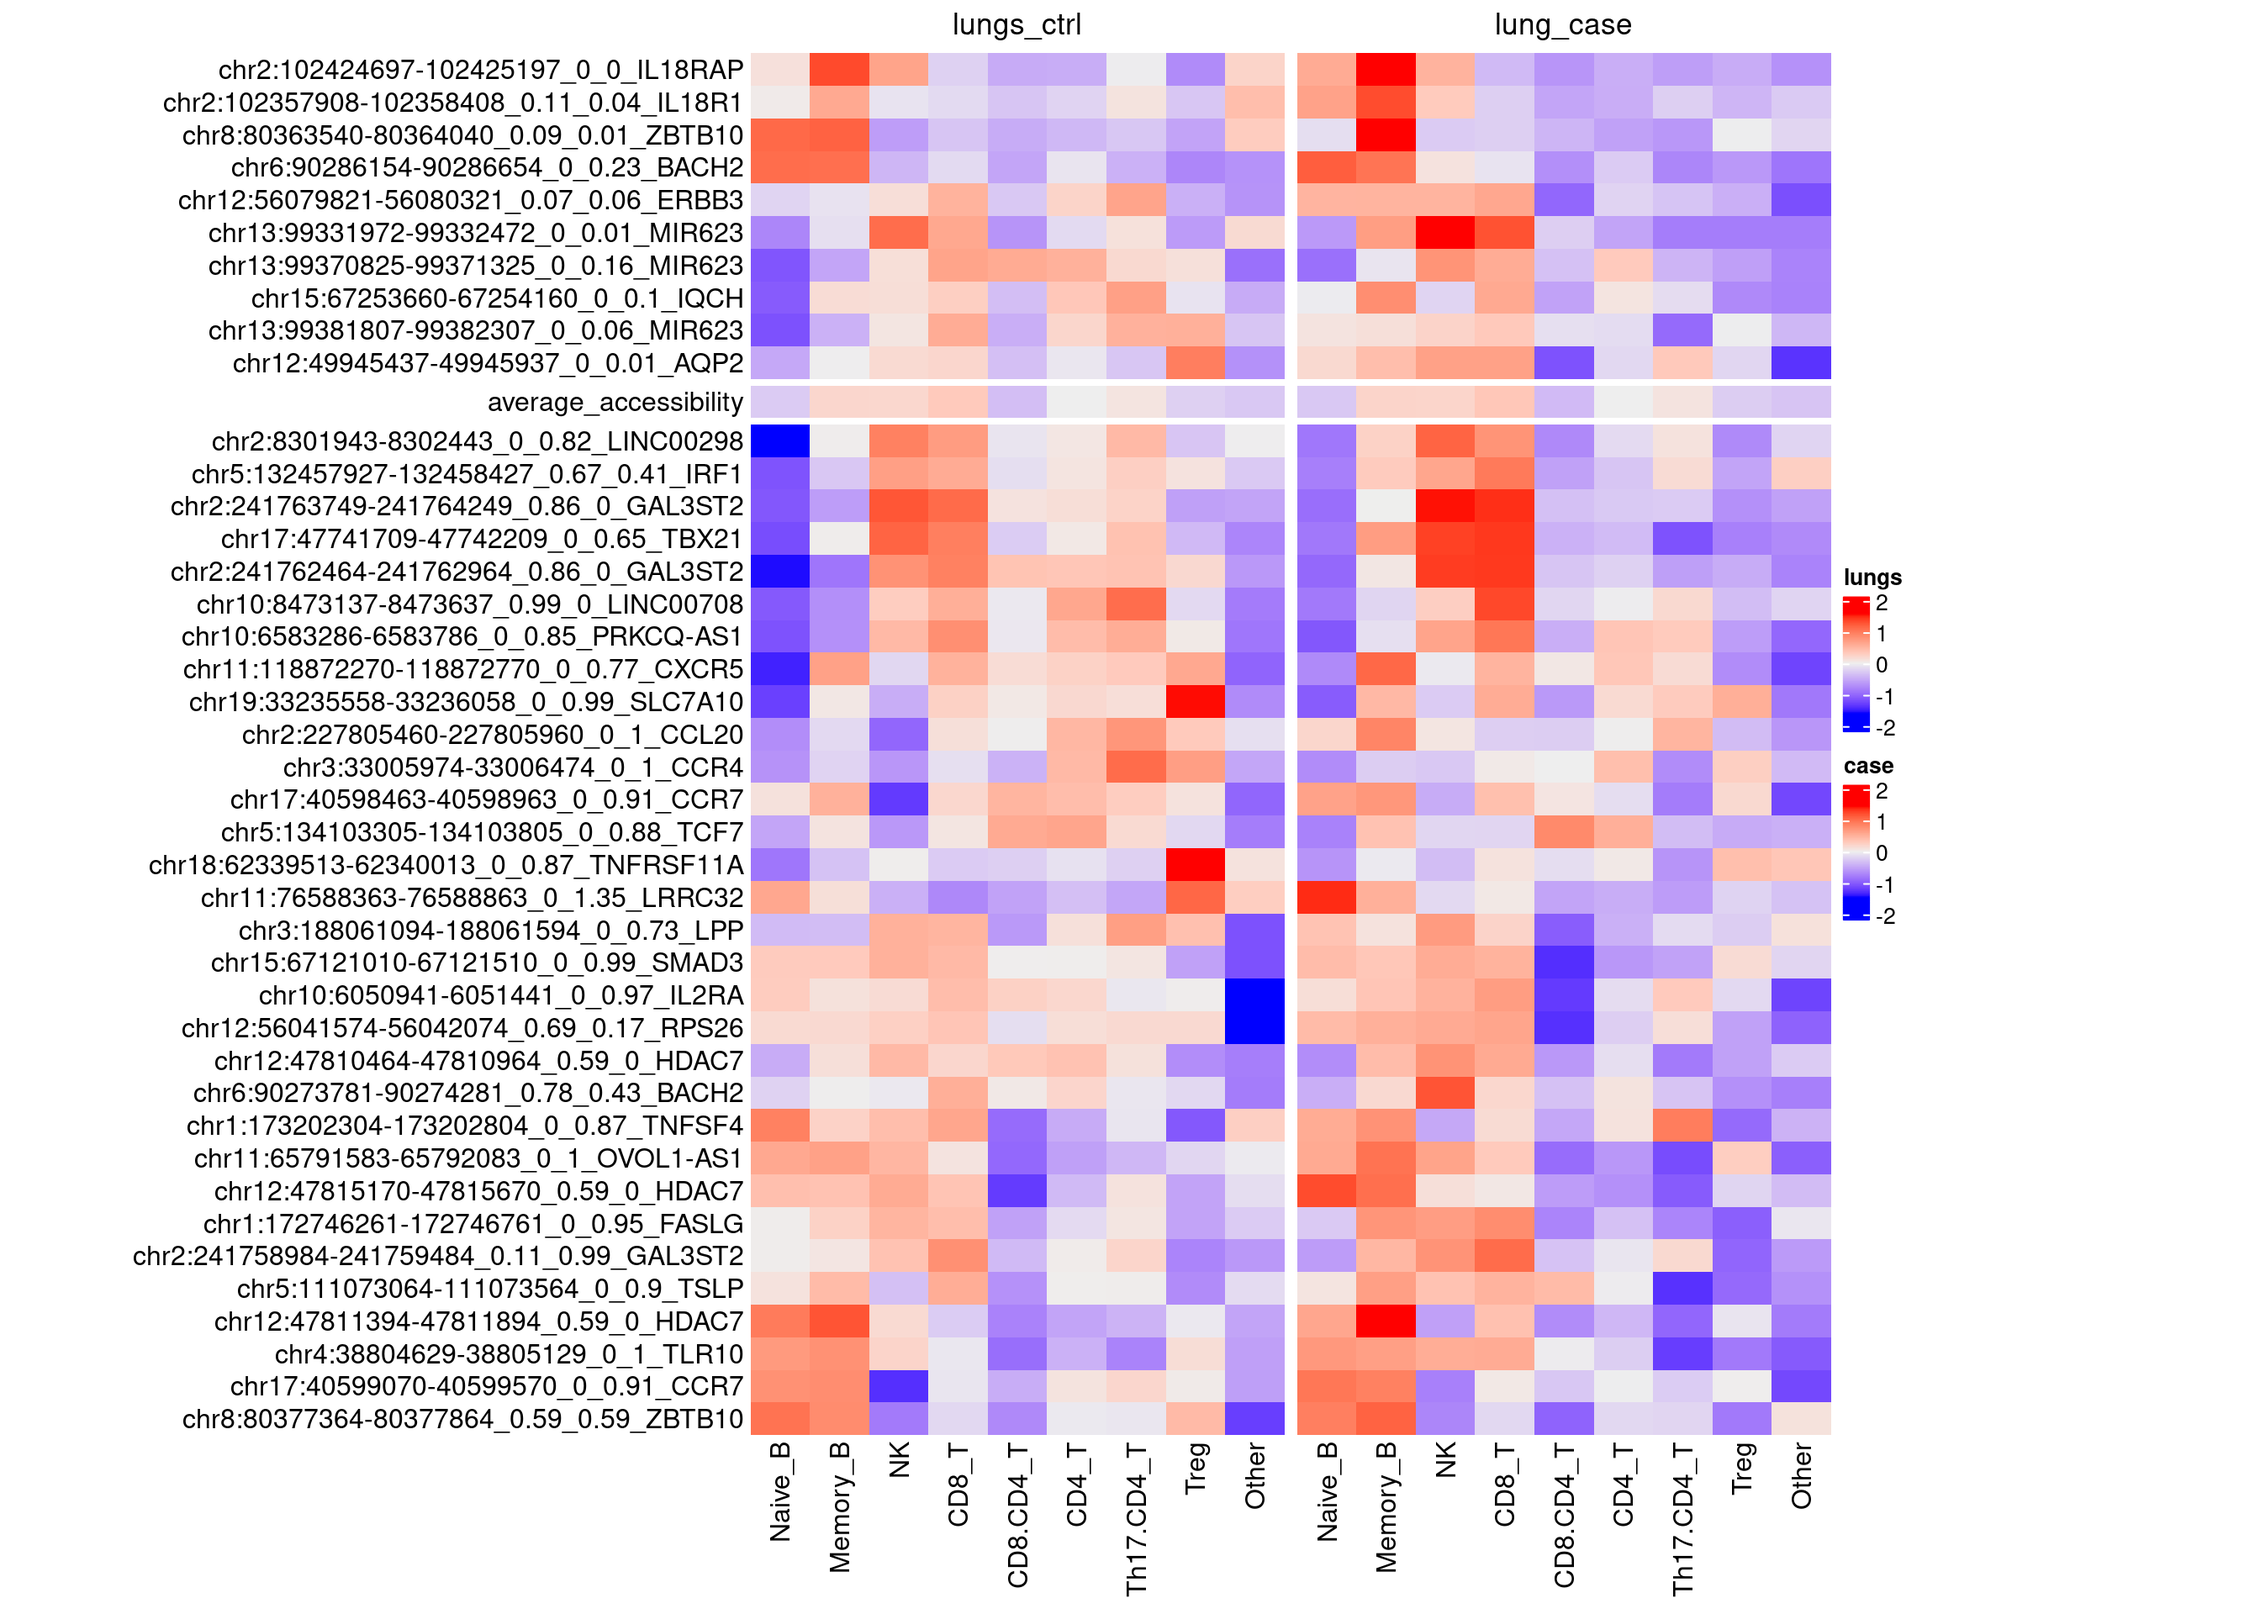
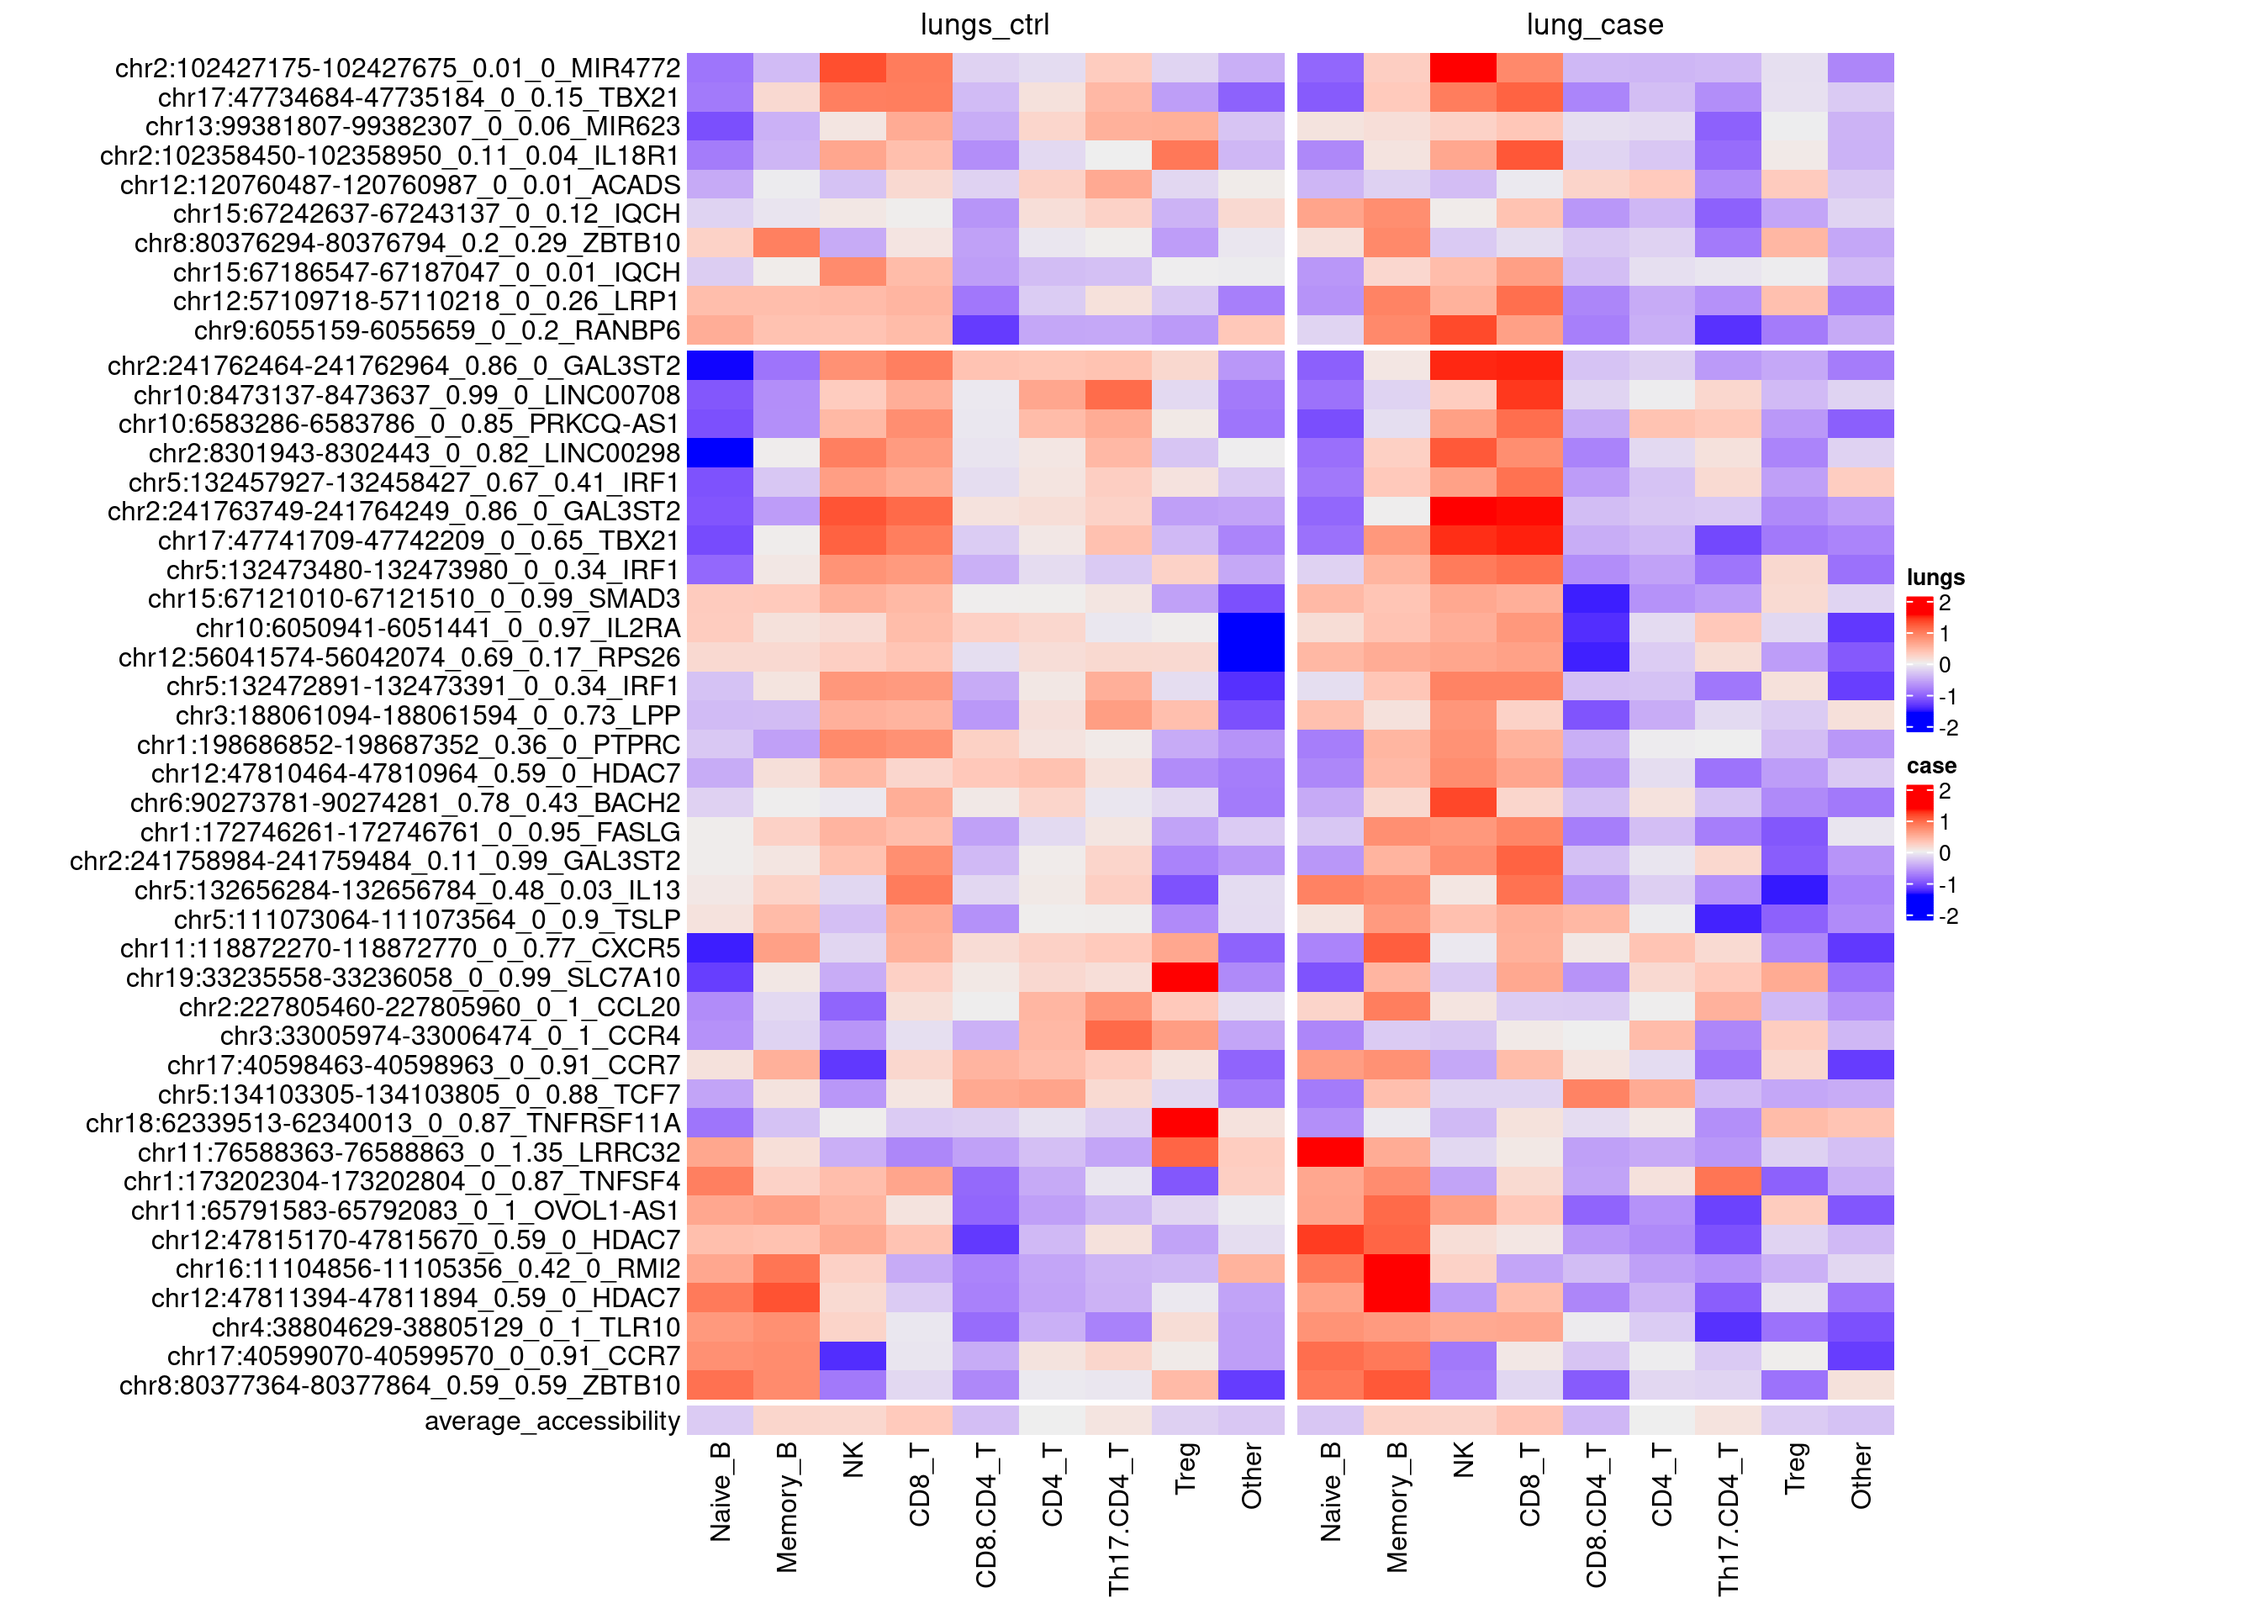
Build site.

diff --git a/docs/linking_lung_celltype_OCRs_with_asthma_genetics.html b/docs/linking_lung_celltype_OCRs_with_asthma_genetics.html
@@ -377,7 +377,7 @@ lung immune OCRs</h1>
 <p>
 <button type="button" class="btn btn-default btn-workflowr btn-workflowr-report" data-toggle="collapse" data-target="#workflowr-report">
 <span class="glyphicon glyphicon-list" aria-hidden="true"></span>
-workflowr <span class="glyphicon glyphicon-exclamation-sign text-danger"
+workflowr <span class="glyphicon glyphicon-ok text-success"
 aria-hidden="true"></span>
 </button>
 </p>
@@ -388,8 +388,8 @@ aria-hidden="true"></span>
 </li>
 <li>
 <a data-toggle="tab" href="#checks"> Checks <span
-class="glyphicon glyphicon-exclamation-sign text-danger"
-aria-hidden="true"></span> </a>
+class="glyphicon glyphicon-ok text-success" aria-hidden="true"></span>
+</a>
 </li>
 <li>
 <a data-toggle="tab" href="#versions">Past versions</a>
@@ -402,9 +402,9 @@ aria-hidden="true"></span> </a>
 </p>
 <p>
 <strong>Checks:</strong> <span
-class="glyphicon glyphicon-ok text-success" aria-hidden="true"></span> 6
+class="glyphicon glyphicon-ok text-success" aria-hidden="true"></span> 7
 <span class="glyphicon glyphicon-exclamation-sign text-danger"
-aria-hidden="true"></span> 1
+aria-hidden="true"></span> 0
 </p>
 <p>
 <strong>Knit directory:</strong> <code>lung_lymph_scMultiomics/</code>
@@ -514,56 +514,30 @@ run.</p>
 <div class="panel panel-default">
 <div class="panel-heading">
 <p class="panel-title">
-<a data-toggle="collapse" data-parent="#workflowr-checks" href="#strongFilepathsstrongabsolute">
-<span class="glyphicon glyphicon-exclamation-sign text-danger"
-aria-hidden="true"></span> <strong>File paths:</strong> absolute </a>
+<a data-toggle="collapse" data-parent="#workflowr-checks" href="#strongFilepathsstrongrelative">
+<span class="glyphicon glyphicon-ok text-success"
+aria-hidden="true"></span> <strong>File paths:</strong> relative </a>
 </p>
 </div>
-<div id="strongFilepathsstrongabsolute" class="panel-collapse collapse">
+<div id="strongFilepathsstrongrelative" class="panel-collapse collapse">
 <div class="panel-body">
-<p>
-Using absolute paths to the files within your workflowr project makes it
-difficult for you and others to run your code on a different machine.
-Change the absolute path(s) below to the suggested relative path(s) to
-make your code more reproducible.
-</p>
-<table class="table table-condensed table-hover">
-<thead>
-<tr>
-<th style="text-align:left;">
-absolute
-</th>
-<th style="text-align:left;">
-relative
-</th>
-</tr>
-</thead>
-<tbody>
-<tr>
-<td style="text-align:left;">
-~/projects/lung_lymph_scMultiomics/data/CRE_0_asthma_fine-mapping_summary.txt
-</td>
-<td style="text-align:left;">
-data/CRE_0_asthma_fine-mapping_summary.txt
-</td>
-</tr>
-</tbody>
-</table>
+<p>Great job! Using relative paths to the files within your workflowr
+project makes it easier to run your code on other machines.</p>
 </div>
 </div>
 </div>
 <div class="panel panel-default">
 <div class="panel-heading">
 <p class="panel-title">
-<a data-toggle="collapse" data-parent="#workflowr-checks" href="#strongRepositoryversionstrongahrefhttpsgithubcomj3gulunglymphscMultiomicstree6fb29da947d3dfc9aa885e76eb9d372affe6cf77targetblank6fb29daa">
+<a data-toggle="collapse" data-parent="#workflowr-checks" href="#strongRepositoryversionstrongahrefhttpsgithubcomj3gulunglymphscMultiomicstree06b50ece6cd6159f3676fa3c07852e686a2a2c35targetblank06b50eca">
 <span class="glyphicon glyphicon-ok text-success"
 aria-hidden="true"></span> <strong>Repository version:</strong>
-<a href="https://github.com/j3gu/lung_lymph_scMultiomics/tree/6fb29da947d3dfc9aa885e76eb9d372affe6cf77" target="_blank">6fb29da</a>
+<a href="https://github.com/j3gu/lung_lymph_scMultiomics/tree/06b50ece6cd6159f3676fa3c07852e686a2a2c35" target="_blank">06b50ec</a>
 </a>
 </p>
 </div>
 <div
[2 lines of base64/hex data omitted]
 class="panel-collapse collapse">
 <div class="panel-body">
 <p>
@@ -573,7 +547,7 @@ reproducibility.
 </p>
 <p>
 The results in this page were generated with repository version
-<a href="https://github.com/j3gu/lung_lymph_scMultiomics/tree/6fb29da947d3dfc9aa885e76eb9d372affe6cf77" target="_blank">6fb29da</a>.
+<a href="https://github.com/j3gu/lung_lymph_scMultiomics/tree/06b50ece6cd6159f3676fa3c07852e686a2a2c35" target="_blank">06b50ec</a>.
 See the <em>Past versions</em> tab to see a history of the changes made
 to the R Markdown and HTML files.
 </p>
@@ -713,6 +687,40 @@ Message
 Rmd
 </td>
 <td>
+<a href="https://github.com/j3gu/lung_lymph_scMultiomics/blob/06b50ece6cd6159f3676fa3c07852e686a2a2c35/analysis/linking_lung_celltype_OCRs_with_asthma_genetics.Rmd" target="_blank">06b50ec</a>
+</td>
+<td>
+Jing Gu
+</td>
+<td>
+2025-02-18
+</td>
+<td>
+changed PIP cutoff
+</td>
+</tr>
+<tr>
+<td>
+html
+</td>
+<td>
+<a href="https://rawcdn.githack.com/j3gu/lung_lymph_scMultiomics/4d1b43908c72c655b81c81a011c09a73ee35d4bd/docs/linking_lung_celltype_OCRs_with_asthma_genetics.html" target="_blank">4d1b439</a>
+</td>
+<td>
+Jing Gu
+</td>
+<td>
+2025-02-18
+</td>
+<td>
+Build site.
+</td>
+</tr>
+<tr>
+<td>
+Rmd
+</td>
+<td>
 <a href="https://github.com/j3gu/lung_lymph_scMultiomics/blob/6fb29da947d3dfc9aa885e76eb9d372affe6cf77/analysis/linking_lung_celltype_OCRs_with_asthma_genetics.Rmd" target="_blank">6fb29da</a>
 </td>
 <td>
@@ -825,7 +833,7 @@ functional data</li>
 </ul>
 <ol style="list-style-type: decimal">
 <li>Define asthma candidate enhancers by ePIPs <span
-class="math inline">\(\ge\)</span> 0.5</li>
+class="math inline">\(\ge\)</span> 0.3</li>
 </ol>
 <ul>
 <li>the selected cutoff shows strong enrichment with overlapping
@@ -847,32 +855,26 @@ OCRs</li>
 <div id="enrichment-test-for-enhancers-with-high-epips"
 class="section level2">
 <h2>Enrichment test for enhancers with high ePIPs</h2>
-<p>At a cutoff of 0.5 for ePIPs, enhancers with high ePIPs show
+<p>At a cutoff of 0.3 for ePIPs, enhancers with high ePIPs show
 significant enrichment for the overlapped OCRs.</p>
 <pre><code>               high_ePIP low_ePIP
-overlapped            27       81
-not_overlapped         8       75</code></pre>
+overlapped            31       77
+not_overlapped        10       73</code></pre>
 <pre><code>
     Fisher&#39;s Exact Test for Count Data
 
 data:  fisher_x
-p-value = 0.007855
+p-value = 0.007228
 alternative hypothesis: true odds ratio is not equal to 1
 95 percent confidence interval:
- 1.273807 8.423933
+ 1.284247 7.180885
 sample estimates:
 odds ratio 
-  3.107596 </code></pre>
+  2.923176 </code></pre>
 </div>
 <div id="size-distribution-for-ethans-list-of-enhancers"
 class="section level2">
 <h2>Size distribution for Ethan’s list of enhancers</h2>
-<ul>
-<li>27 enhancers with PIPs &gt;= 0.5</li>
-<li>31 peaks (501 bp) overlap with 27 enhancers at high PIPs</li>
-<li>The above peaks are required to contain asthma fine-mapped
-variants.</li>
-</ul>
 <p><img src="figure/linking_lung_celltype_OCRs_with_asthma_genetics.Rmd/unnamed-chunk-6-1.png" width="672" style="display: block; margin: auto;" /></p>
 <p>
 <button type="button" class="btn btn-default btn-xs btn-workflowr btn-workflowr-fig" data-toggle="collapse" data-target="#fig-unnamed-chunk-6-1">
